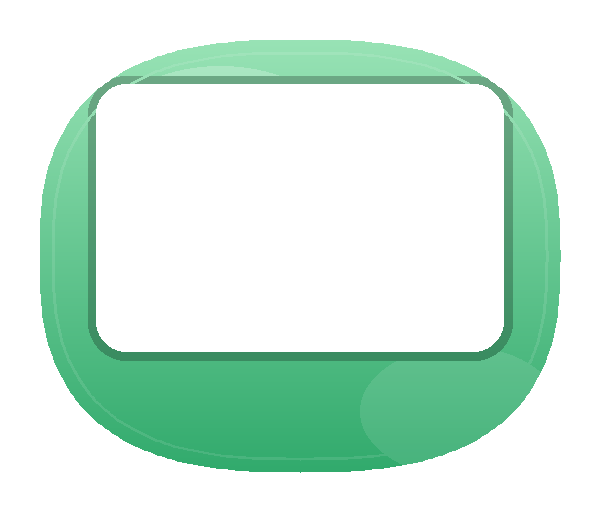
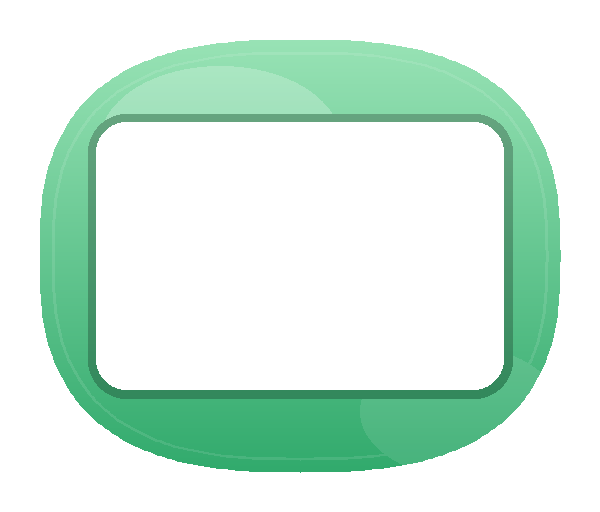
fix(mascot): centered screen, strip clipping, battery/perf audit, premium polish
Visual fixes:
- The '10-12 blinking screens' artifact: the 8-frame sprite strip had
  NO clipping — 7 frames painted outside the screen hole. The screen
  container now clips (overflow hidden + matching rounded corners),
  so exactly one frame is ever visible
- Screen re-centered in the body: regenerated device-body + sheets
  with the hole at the true vertical center (was riding high above
  the wordmark). Verified: screen center == body center

Battery/perf audit (removed costs with no visible payoff):
- Offscreen devices now pause ALL animation (float, glow, flipbook)
  via data-inview — floating for an invisible mascot was pure drain
- The glow's blur(6px) filter ran on the GPU 24/7 for a barely
  visible softening — replaced with a softer two-stop gradient,
  identical feel, zero filter cost
- Only the active face's sprite sheet is mounted per placement
  (plus the previous one briefly for the crossfade) — was decoding
  all six sheets in every placement
- Video draw loop now paints only while actually playing, at most
  ~30fps (was repainting every rAF frame at 60fps), and stops
  entirely when playback is impossible
- prefers-reduced-motion still forces static sprite mode

Premium polish:
- One-time entrance: the device settles in with a soft scale
  (runs once, no battery cost after)
- Static glass gloss on the screen — a diagonal light streak like
  real screen glass (pure CSS, no animation)
- Softer two-layer ambient shadow retained
[…]

Changed region(s): [[0.12, 0.125, 0.87, 0.2812], [0.12, 0.6562, 0.87, 0.7812]]

diff --git a/src/components/MerajDevice.tsx b/src/components/MerajDevice.tsx
@@ -61,7 +61,7 @@ export const MERAJ_FRAMES = 8
 export const MERAJ_FPS = 12
 
 /** Source canvas geometry (600x512) and the screen rect inside it. */
-export const MERAJ_SCREEN = { x: 96, y: 84, w: 408, h: 268 }
+export const MERAJ_SCREEN = { x: 96, y: 122, w: 408, h: 268 }  // vertically centered in the body
 
 const FACE_LABEL: Record<MerajFace, string> = {
   neutral: 'Meraj, resting',
@@ -135,6 +135,17 @@ export default function MerajDevice({
 }: MerajDeviceProps) {
   const face = resolveMerajFace(interactionState, businessMood)
   const active = interactionState !== 'idle'
+
+  // Crossfade memory: render only the current face's sprite (plus the
+  // previous one briefly, for the fade) — mounting all six sheets in
+  // every placement decoded 6× the images for no visual gain.
+  const [prevFace, setPrevFace] = useState<MerajFace | null>(null)
+  const faceRef = useRef<MerajFace>(face)
+  if (faceRef.current !== face) {
+    setPrevFace(faceRef.current)
+    faceRef.current = face
+    if (typeof window !== 'undefined') setTimeout(() => setPrevFace((p) => (p === faceRef.current ? p : null)), 400)
+  }
   const height = PIXELS[size]
   const width = height * (600 / 512) // TV form factor (1.171875 : 1)
   // Accessibility: users who prefer reduced motion never get the 24fps
@@ -174,8 +185,12 @@ export default function MerajDevice({
     }
 
     let raf = 0
-    const draw = () => {
-      if (vid.readyState >= 2) {
+    let lastDraw = 0
+    const draw = (now: number) => {
+      // Only paint while the video is actually playing, at most ~30fps —
+      // an idle rAF loop spinning at 60fps burns battery for nothing.
+      if (!vid.paused && vid.readyState >= 2 && now - lastDraw >= 33) {
+        lastDraw = now
         ctx.clearRect(0, 0, canvas.width, canvas.height)
         ctx.drawImage(vid, 0, 0, canvas.width, canvas.height)
       }
@@ -195,11 +210,17 @@ export default function MerajDevice({
     tryPlay()
     raf = requestAnimationFrame(draw)
     const onVis = () => (document.visibilityState === 'visible' ? tryPlay() : vid.pause())
+    // No playback possible (autoplay blocked / missing file) → kill the
+    // draw loop; the sprite fallback beneath takes over.
+    const giveUp = () => { cancelAnimationFrame(raf); raf = 0 }
+    const onStall = () => { if (vid.error) giveUp() }
+    vid.addEventListener('stalled', onStall)
     document.addEventListener('visibilitychange', onVis)
     return () => {
       cancelAnimationFrame(raf)
       vid.removeEventListener('playing', onPlaying)
       vid.removeEventListener('error', onError)
+      vid.removeEventListener('stalled', onStall)
       document.removeEventListener('visibilitychange', onVis)
     }
   }, [video, face, inView])
@@ -220,6 +241,7 @@ export default function MerajDevice({
       title={FACE_LABEL[face]}
       data-active={active ? 'true' : 'false'}
       data-face={face}
+      data-inview={inView ? 'true' : 'false'}
       data-anim={video ? 'video' : 'sprite'}
       className={clsx('meraj-device relative inline-flex items-center justify-center flex-shrink-0', className)}
       style={{
@@ -234,8 +256,7 @@ export default function MerajDevice({
         className="meraj-glow absolute rounded-full pointer-events-none"
         style={{
           inset: GLOW_INSET[context],
-          background: 'radial-gradient(closest-side, rgb(var(--meraj-glow, 46 166 103) / 0.5), transparent 72%)',
-          filter: 'blur(6px)',
+          background: 'radial-gradient(closest-side, rgb(var(--meraj-glow, 46 166 103) / 0.42), rgb(var(--meraj-glow, 46 166 103) / 0.16) 46%, transparent 78%)',
         }}
       />
 
@@ -248,8 +269,10 @@ export default function MerajDevice({
           className="meraj-screen absolute pointer-events-none"
           style={scr}
         >
-          {/* Sprite faces (always mounted as the video fallback) */}
-          {(Object.keys(MERAJ_SHEETS) as MerajFace[]).map((key) => (
+          {/* Sprite faces — only the active (and briefly the previous)
+              sheet is mounted; the container clips the 8-frame strip to
+              the screen (see .meraj-screen CSS). */}
+          {[...(prevFace && prevFace !== face ? [prevFace] : []), face].map((key) => (
             <img
               key={key}
               src={MERAJ_SHEETS[key]}

diff --git a/src/index.css b/src/index.css
@@ -268,6 +268,43 @@ h1, h2, h3 {
   animation: meraj-flipbook 0.667s steps(8, end) infinite;
   animation-delay: -0.05s; /* de-syncs multiple devices on one screen */
 }
+/* THE SCREEN WINDOW — clips the 8-frame strip to the hole in the body
+   (matching its rounded corners) so only ONE frame is ever visible.
+   Without this the whole strip painted outside the screen — the
+   "many blinking screens" artifact. */
+.meraj-screen {
+  overflow: hidden;
+  border-radius: 7.35% / 11.2%;  /* r=30 of 408x268, scales with size */
+  /* Static glass gloss — a diagonal light streak like real screen glass.
+     Pure CSS, no animation, zero battery cost. */
+  box-shadow: inset 0 0 0 1px rgb(255 255 255 / 0.04);
+}
+.meraj-screen::after {
+  content: '';
+  position: absolute;
+  inset: 0;
+  border-radius: inherit;
+  pointer-events: none;
+  background: linear-gradient(115deg,
+    rgb(255 255 255 / 0.10) 0%,
+    rgb(255 255 255 / 0.03) 18%,
+    transparent 34%,
+    transparent 78%,
+    rgb(255 255 255 / 0.05) 100%);
+}
+/* One-time entrance — settles in with a soft scale, then stops. */
+@keyframes meraj-enter {
+  from { transform: scale(0.9); opacity: 0; }
+  to   { transform: scale(1); opacity: 1; }
+}
+.meraj-device { animation: meraj-enter 0.45s cubic-bezier(0.22, 1, 0.36, 1) 1 both; }
+/* Pause ALL motion when the device is scrolled offscreen — floating and
+   glowing for an invisible mascot is pure battery drain. */
+.meraj-device[data-inview='false'] .meraj-float,
+.meraj-device[data-inview='false'] .meraj-glow,
+.meraj-device[data-inview='false'] .meraj-flipbook {
+  animation-play-state: paused;
+}
 /* THEME-ADAPTIVE SCREEN: black screen + white features in light mode;
    dark mode inverts it → white screen + black features. */
 .dark .meraj-screen { filter: invert(1); }

diff --git a/scripts/generate-meraj-faces.py b/scripts/generate-meraj-faces.py
@@ -65,7 +65,7 @@ FACE_W = (250, 248, 242)       # white eyes/mouth (light theme)
 
 # Geometry — body / screen / bezel
 BODY_CX, BODY_CY, BODY_RX, BODY_RY = 300, 256, 260, 216   # 520x432
-SCREEN_BOX = (96, 84, 504, 352)                            # 408x268, r=30
+SCREEN_BOX = (96, 122, 504, 390)                           # 408x268, r=30 — vertically CENTERED
 SCREEN_R = 30
 
 STATES = ['neutral', 'happy', 'sad', 'listening', 'thinking', 'speaking']
@@ -135,8 +135,8 @@ def render_body():
                fill=(255, 255, 255, 58))
     ad.ellipse((BODY_CX + 60, BODY_CY + 90, BODY_CX + 260, BODY_CY + 220),   # warm sheen
                fill=(255, 255, 255, 26))
-    ad.rounded_rectangle((88, 76, 512, 360), radius=38, fill=(0, 0, 0, 62))  # bezel shadow ring
-    ad.rounded_rectangle((98, 86, 502, 350), radius=28, outline=(255, 255, 255, 30), width=2)
+    ad.rounded_rectangle((88, 114, 512, 398), radius=38, fill=(0, 0, 0, 62))  # bezel shadow ring
+    ad.rounded_rectangle((98, 124, 502, 388), radius=28, outline=(255, 255, 255, 30), width=2)
     inner_pts = superellipse_pts(BODY_CX, BODY_CY, BODY_RX - 12, BODY_RY - 12, n=2.7)
     ad.polygon(inner_pts, outline=(255, 255, 255, 26), width=3)             # inner light line
     # clip accents to the body silhouette so nothing bleeds past the edges
@@ -151,17 +151,17 @@ def render_body():
     img.paste(hole, (SCREEN_BOX[0], SCREEN_BOX[1]), mask_rr(SCREEN_BOX, SCREEN_R))
 
     # ── bezel content (opaque, drawn directly) ──
-    draw_spaced(d, 'CASHIEA', BODY_CX, 62, load(16, bold=True), CREAM, spacing=6)
+    draw_spaced(d, 'CASHIEA', BODY_CX, 61, load(16, bold=True), CREAM, spacing=6)
 
-    d.ellipse((179, 365, 221, 407), fill=CREAM)                    # M badge
-    d.text((200, 386), 'M', font=load(26, bold=True), fill=BADGE_GREEN, anchor='mm')
-    d.text((312, 386), 'Meraj', font=load(38, serif=True), fill=CREAM, anchor='mm')
-    draw_spaced(d, 'PLAN · TRACK · GROW TOGETHER', BODY_CX, 424, load(13), CREAM, spacing=1)
+    d.ellipse((179, 403, 221, 445), fill=CREAM)                    # M badge
+    d.text((200, 424), 'M', font=load(26, bold=True), fill=BADGE_GREEN, anchor='mm')
+    d.text((312, 424), 'Meraj', font=load(36, serif=True), fill=CREAM, anchor='mm')
+    draw_spaced(d, 'PLAN · TRACK · GROW TOGETHER', BODY_CX, 462, load(13), CREAM, spacing=1)
 
     for i in range(5):                                            # speaker dots
         x = 274 + i * 13
-        d.ellipse((x - 3.5, 448.5, x + 3.5, 455.5), fill=DOT_GREEN)
-    d.ellipse((106, 448, 114, 456), fill=LED)                     # standby LED
+        d.ellipse((x - 3.5, 486.5, x + 3.5, 493.5), fill=DOT_GREEN)
+    d.ellipse((106, 486, 114, 494), fill=LED)                     # standby LED
 
     return img
 
